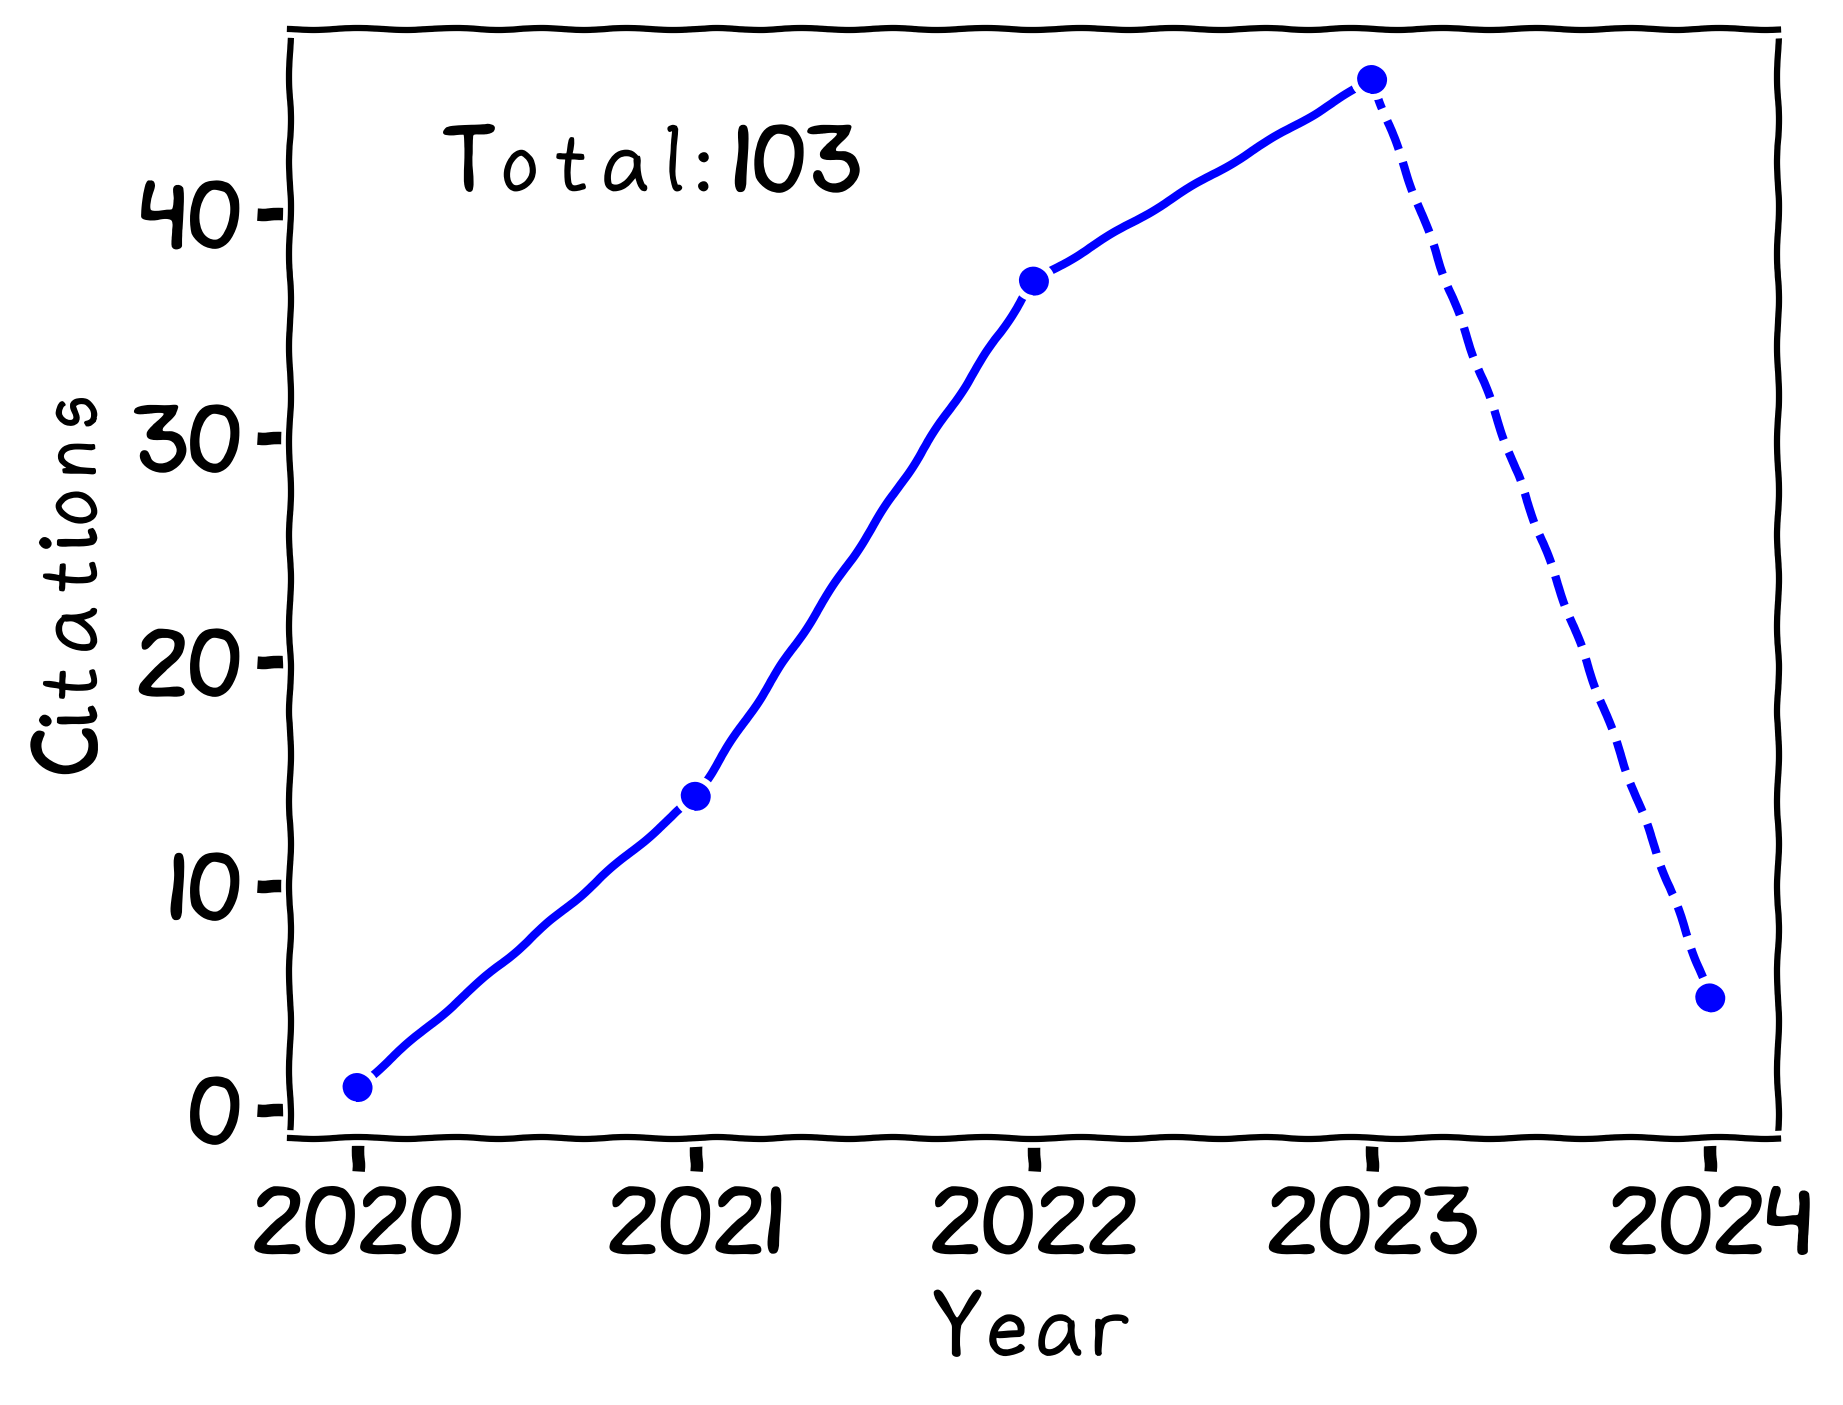
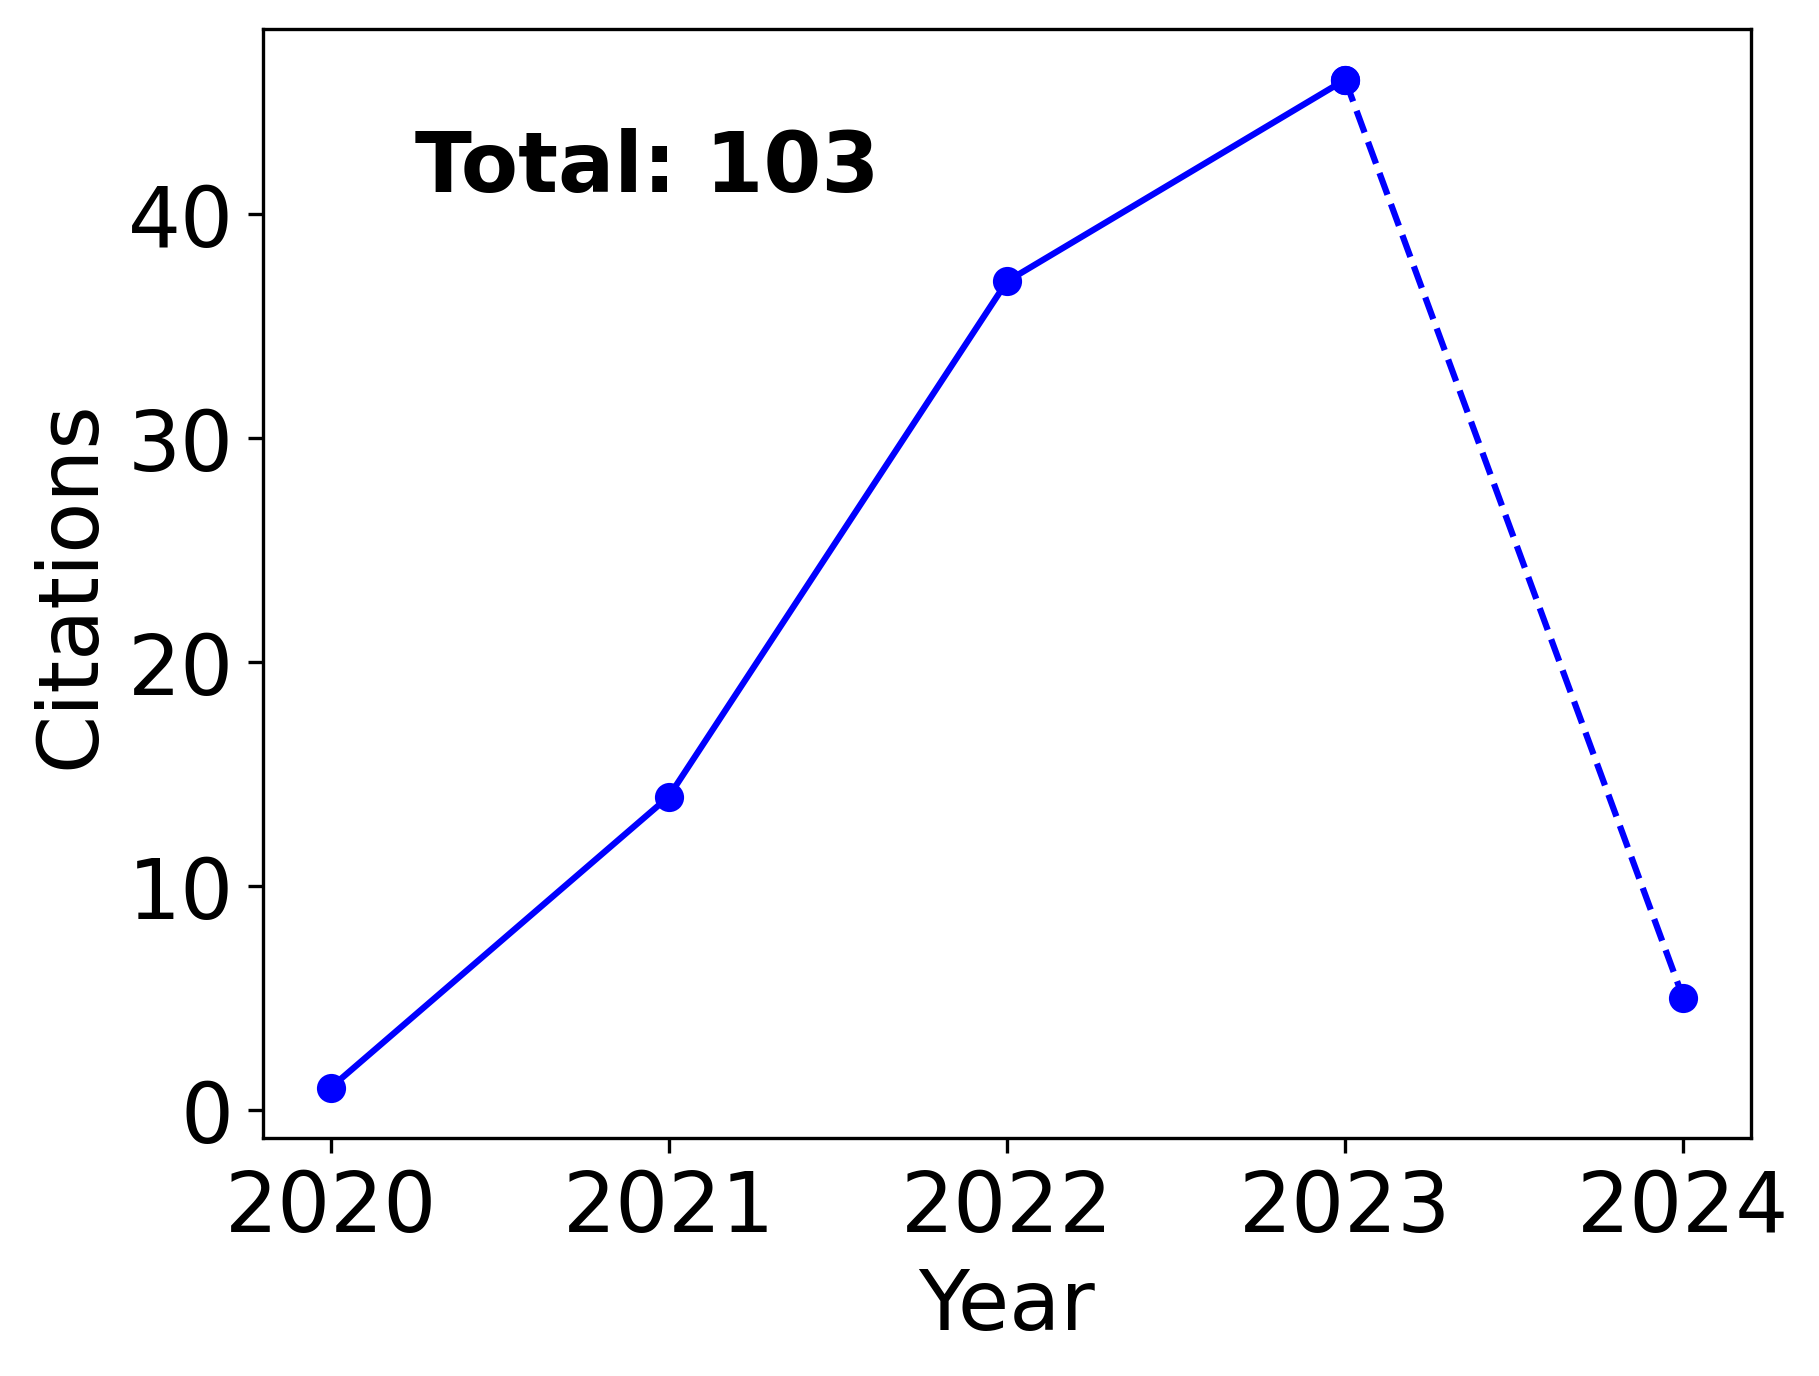
Don't use XKCD for citations plot

diff --git a/figures/code/inspire_citations.py b/figures/code/inspire_citations.py
@@ -2,9 +2,6 @@ from pathlib import Path
 
 import matplotlib.pyplot as plt
 
-# XKCD style
-plt.xkcd()
-
 dates = [2020, 2021, 2022, 2023, 2024]
 citations = [1, 14, 37, 46, 5]
 
